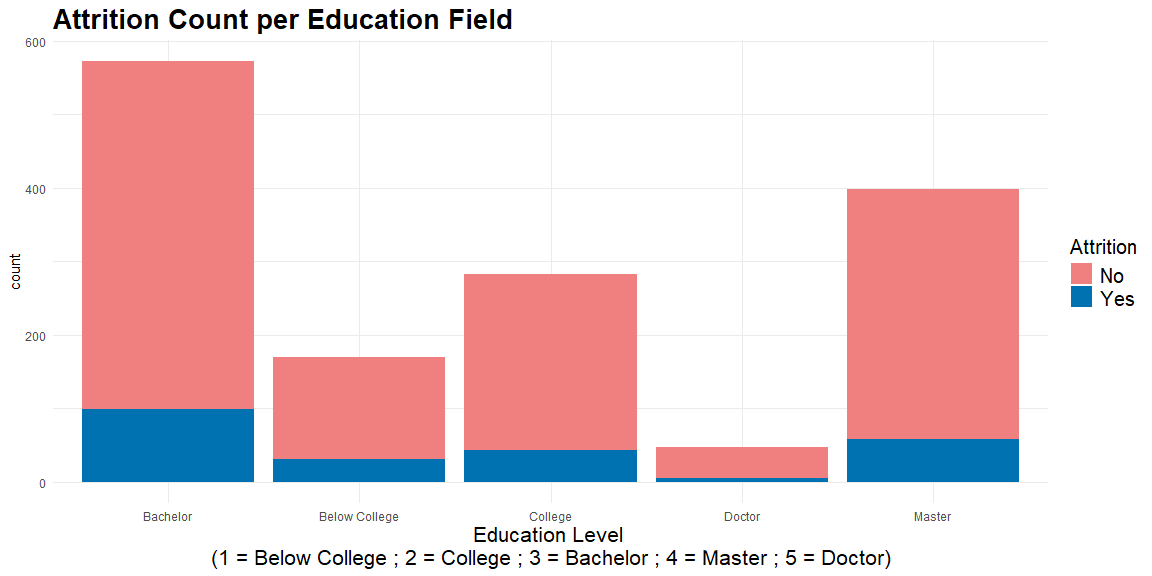
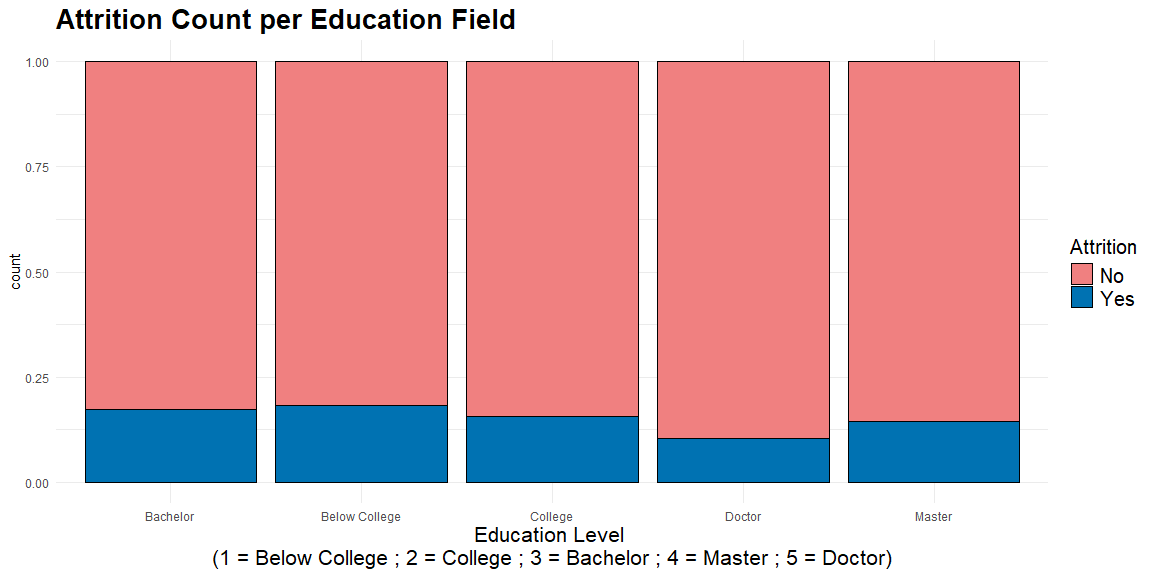
Descirbe the hypotheses

diff --git a/employee_attrition_analysis.md b/employee_attrition_analysis.md
@@ -612,7 +612,7 @@ df_hratt[sample(nrow(df_hratt), 1), ]
     ## # A tibble: 1 × 31
     ##     age attrition business_travel daily_rate department       distance_from_home
     ##   <dbl> <chr>     <chr>                <dbl> <chr>                         <dbl>
-    ## 1    34 No        Travel_Rarely         1351 Research & Deve…                  1
+    ## 1    42 No        Travel_Rarely          201 Research & Deve…                  1
     ## # ℹ 25 more variables: education <dbl>, education_field <chr>,
     ## #   environment_satisfaction <dbl>, gender <chr>, hourly_rate <dbl>,
     ## #   job_involvement <dbl>, job_level <dbl>, job_role <chr>,
@@ -912,30 +912,6 @@ df_hratt <- df_hratt %>%
 # Logistic regression to examine the association between attrition and age
 logistic_model_1 <- glm(attrition ~ age, data = df_hratt, family = binomial)
 
-# Display model results
-summary(logistic_model_1)
-```
-
-    ## 
-    ## Call:
-    ## glm(formula = attrition ~ age, family = binomial, data = df_hratt)
-    ## 
-    ## Coefficients:
-    ##             Estimate Std. Error z value Pr(>|z|)    
-    ## (Intercept)  0.20620    0.30599   0.674      0.5    
-    ## age         -0.05225    0.00870  -6.006 1.91e-09 ***
-    ## ---
-    ## Signif. codes:  0 '***' 0.001 '**' 0.01 '*' 0.05 '.' 0.1 ' ' 1
-    ## 
-    ## (Dispersion parameter for binomial family taken to be 1)
-    ## 
-    ##     Null deviance: 1298.6  on 1469  degrees of freedom
-    ## Residual deviance: 1259.1  on 1468  degrees of freedom
-    ## AIC: 1263.1
-    ## 
-    ## Number of Fisher Scoring iterations: 4
-
-``` r
 # Extract p-value from the model to assess significance
 p_value <- summary(logistic_model_1)$coefficients[2, 4]  # P-value for the 'age' variable
 
@@ -956,7 +932,7 @@ print(result)
 # Create the first plot: Attrition count per age
 plot1 <- ggplot(data = df_hratt, aes(x = age, fill = attrition)) +
   geom_bar(position = "dodge", color = "black") +  # Adding outline for better clarity
-  scale_fill_manual(values = c("red", "blue")) +  # Set colors for attrition
+  scale_fill_manual(values = c("lightcoral", "darkblue")) +  # Set colors for attrition
   ggtitle("Attrition Count per Age") +
   theme_minimal() +
   theme(
@@ -997,7 +973,18 @@ grid.arrange(plot1, plot2, ncol = 2)
 
 ![](employee_attrition_analysis_files/figure-gfm/unnamed-chunk-23-1.png)<!-- -->
 
-**Thus, I affirm that the hypothesis is TRUE.**
+This analysis looks at how age affects whether people leave or stay
+(attrition). The two variables used are *attrition* (Yes or No) and
+*age* (ranging from 18 to 60 years old). A logistic regression test was
+done to see if age is related to attrition. The result showed a p-value
+less than 0.05, which means that there is a significant association
+between age and attrition. Additionally, two bar charts were created to
+show how attrition is distributed across different age groups. The
+charts show that people under 40 have a higher rate of leaving
+(attrition) compared to those over 40.
+
+**Conclusion:** The analysis supports the hypothesis H1, showing a clear
+association between age and attrition.
 
 #### H2. People that have higher degree of education tend to leave more. **<span style="color: red;">FALSE</span>**
 
@@ -1008,17 +995,6 @@ table_e <- table(df_hratt$attrition, df_hratt$education)
 # Perform Chi-squared test
 chi_squared_test_2 <- chisq.test(table_e)
 
-# Check the result
-print(chi_squared_test_2)
-```
-
-    ## 
-    ##  Pearson's Chi-squared test
-    ## 
-    ## data:  table_e
-    ## X-squared = 3.074, df = 4, p-value = 0.5455
-
-``` r
 if (chi_squared_test_2$p.value < 0.05) {
   print("There is a significant association between attrition and education.")
 } else {
@@ -1031,7 +1007,7 @@ if (chi_squared_test_2$p.value < 0.05) {
 ``` r
 # Create the count plot using ggplot2 with softer colors
 ggplot(data = df_hratt, aes(x = education, fill = attrition)) +
-  geom_bar() +  # Default position is stacked; can change to 'dodge' if preferred
+  geom_bar(position = "fill", color = "black") +  # Adding outline for better clarity
   scale_fill_manual(values = c("lightcoral", "#0072B2")) +  # Softer shades for colors
   labs(
     title = "Attrition Count per Education Field",
@@ -1049,39 +1025,25 @@ ggplot(data = df_hratt, aes(x = education, fill = attrition)) +
 
 ![](employee_attrition_analysis_files/figure-gfm/unnamed-chunk-25-1.png)<!-- -->
 
-**Thus, I affirm that the hypothesis is FALSE.**
+This analysis explores the relationship between education level and
+attrition. The two variables examined are *attrition* (Yes or No) and
+*education* (ranging from Below College to Doctorate). A Chi-square test
+was performed to determine if there is an association between education
+level and attrition. The result yielded a p-value greater than 0.05,
+which suggests that there is no significant association between
+education and attrition. Additionally, a bar chart was created to
+visualize the attrition rate across different education levels (Below
+College, College, Bachelor, Master, Doctor). The chart shows that the
+attrition rate is approximately 0.125 across all education levels.
 
-#### H3. People who live far from work tend to leave. **<span style="color: green;">TRUE</span>**
+**Conclusion:** The analysis does not support the hypothesis H2.
+
+#### H3. People who live far from work tend to leave. **Need for further analysis**
 
 ``` r
 # Logistic regression to examine the association between attrition and distance_from_home
 logistic_model_3 <- glm(attrition ~ distance_from_home, data = df_hratt, family = binomial)
 
-# Display model results
-summary(logistic_model_3)
-```
-
-    ## 
-    ## Call:
-    ## glm(formula = attrition ~ distance_from_home, family = binomial, 
-    ##     data = df_hratt)
-    ## 
-    ## Coefficients:
-    ##                     Estimate Std. Error z value Pr(>|z|)    
-    ## (Intercept)        -1.890051   0.111382 -16.969  < 2e-16 ***
-    ## distance_from_home  0.024710   0.008312   2.973  0.00295 ** 
-    ## ---
-    ## Signif. codes:  0 '***' 0.001 '**' 0.01 '*' 0.05 '.' 0.1 ' ' 1
-    ## 
-    ## (Dispersion parameter for binomial family taken to be 1)
-    ## 
-    ##     Null deviance: 1298.6  on 1469  degrees of freedom
-    ## Residual deviance: 1290.0  on 1468  degrees of freedom
-    ## AIC: 1294
-    ## 
-    ## Number of Fisher Scoring iterations: 4
-
-``` r
 # Extract p-value from the model to assess significance
 p_value <- summary(logistic_model_3)$coefficients[2, 4]  # P-value for the 'distance_from_home' variable
 
@@ -1099,13 +1061,13 @@ print(result)
     ## [1] "There is a significant association between attrition and distance from home."
 
 ``` r
-# Create the KDE plot for distance from home
-ggplot() +
-  geom_density(data = df_left, aes(x = distance_from_home, fill = "Employees who left"), alpha = 0.5, color = "lightcoral") +
-  geom_density(data = df_stayed, aes(x = distance_from_home, fill = "Employees who stayed"), alpha = 0.5, color = "#0072B2") +
+# Create the bar plot
+ggplot(df_hratt, aes(x = distance_from_home, fill = attrition)) +
+  geom_bar(position = "fill", color = "black", alpha = 0.7) +
   labs(
     title = "Attrition Probabilities per Distance from Home",
     x = "Distance from Home",
+    y = "Count",
     fill = "Attrition"
   ) +
   scale_fill_manual(values = c("lightcoral", "#0072B2")) +
@@ -1113,6 +1075,7 @@ ggplot() +
   theme(
     plot.title = element_text(size = 20, face = "bold"),
     axis.title.x = element_text(size = 16),
+    axis.title.y = element_text(size = 16),
     legend.title = element_text(size = 15),
     legend.text = element_text(size = 15)
   )
@@ -1120,7 +1083,19 @@ ggplot() +
 
 ![](employee_attrition_analysis_files/figure-gfm/unnamed-chunk-27-1.png)<!-- -->
 
-**Thus, we affirm that the hypothesis is TRUE.**
+The bar chart displays the distribution of attrition (Yes/No) across
+different distances from home. From the chart, it can be observed that
+there is no clear trend indicating an increase in attrition as the
+distance from home increases. The proportions of employees leaving
+(shown in blue) do not exhibit a significant rise across the different
+distance categories.
+
+**Conclusion:** Based on the Logistic Regression analysis (p-value \<
+0.05), there is a significant association between attrition and distance
+from home, suggesting that employees living farther from work are more
+likely to leave. However, the bar chart does not visually support a
+clear increase in attrition with distance, highlighting the need for
+further analysis to better understand this relationship.
 
 #### H4. Single people tend to leave more. **<span style="color: green;">TRUE</span>**
 
@@ -1131,17 +1106,6 @@ table_ms <- table(df_hratt$attrition, df_hratt$marital_status)
 # Perform Chi-squared test
 chi_squared_test_4 <- chisq.test(table_ms)
 
-# Check the result
-print(chi_squared_test_4)
-```
-
-    ## 
-    ##  Pearson's Chi-squared test
-    ## 
-    ## data:  table_ms
-    ## X-squared = 46.164, df = 2, p-value = 9.456e-11
-
-``` r
 if (chi_squared_test_4$p.value < 0.05) {
   print("There is a significant association between attrition and marital status.")
 } else {
@@ -1177,7 +1141,18 @@ ggplot(data = df_hratt, aes(x = marital_status, fill = attrition)) +
 
 ![](employee_attrition_analysis_files/figure-gfm/unnamed-chunk-29-1.png)<!-- -->
 
-**Thus, I affirm that the hypothesis is TRUE.**
+This analysis explores the relationship between marital status and
+attrition. The two variables examined are attrition (Yes or No) and
+marital status (Single, Married, Divorced). A Chi-square test was
+performed to determine if there is an association between marital status
+and attrition. The result yielded a p-value less than 0.05, which
+suggests that there is a significant association between marital status
+and attrition. Additionally, a bar chart was created to visualize the
+attrition rate across different marital statuses (Single, Married,
+Divorced). The chart shows that the attrition rate for single employees
+is higher compared to those who are married or divorced.
+
+**Conclusion:** The analysis supports the hypothesis H4.
 
 #### H5. People who make overtime tend to leave more. **<span style="color: green;">TRUE</span>**
 
@@ -1188,17 +1163,6 @@ table_ot <- table(df_hratt$attrition, df_hratt$over_time)
 # Perform Chi-squared test
 chi_squared_test_5 <- chisq.test(table_ot)
 
-# Check the result
-print(chi_squared_test_5)
-```
-
-    ## 
-    ##  Pearson's Chi-squared test with Yates' continuity correction
-    ## 
-    ## data:  table_ot
-    ## X-squared = 87.564, df = 1, p-value < 2.2e-16
-
-``` r
 if (chi_squared_test_5$p.value < 0.05) {
   print("There is a significant association between attrition and overtime.")
 } else {
@@ -1211,7 +1175,7 @@ if (chi_squared_test_5$p.value < 0.05) {
 ``` r
 # Create the count plot with custom colors and ordered overtime
 ggplot(df_hratt, aes(x = over_time, fill = attrition)) +
-  geom_bar(position = "dodge", color ="black") +
+  geom_bar(position = "fill", color ="black") +
   scale_fill_manual(values = c("lightcoral", "#0072B2")) +
   labs(
     title = "Attrition count per overtime",
@@ -1230,7 +1194,17 @@ ggplot(df_hratt, aes(x = over_time, fill = attrition)) +
 
 ![](employee_attrition_analysis_files/figure-gfm/unnamed-chunk-31-1.png)<!-- -->
 
-**Thus, I affirm that the hypothesis is TRUE.**
+This analysis explores the relationship between overtime and attrition.
+The two variables examined are overtime (Yes or No) and attrition (Yes
+or No). A Chi-square test was performed to determine if there is an
+association between overtime and attrition. The result indicated a
+significant association between the two variables. Additionally, a bar
+chart was created to visualize the attrition rate for employees who make
+overtime compared to those who do not. The chart shows that employees
+who make overtime have a higher attrition rate compared to those who do
+not.
+
+**Conclusion:** The analysis supports the hypothesis H5
 
 #### H6. People who present higher performance ratings tend to leave more. **<span style="color: red;">FALSE</span>**
 
@@ -1280,9 +1254,6 @@ ggplot(df_hratt, aes(x = performance_rating, fill = attrition)) +
 
 ![](employee_attrition_analysis_files/figure-gfm/unnamed-chunk-33-1.png)<!-- -->
 
-**Thus, I conclude that hypothesis H6 is FALSE and hypothesis H7 is
-TRUE.**
-
 #### H8. People who have lower job level tend to leave more. **<span style="color: green;">TRUE</span>**
 
 ``` r
@@ -1327,8 +1298,6 @@ ggplot(df_hratt, aes(x = job_level, fill = attrition)) +
 ```
 
 ![](employee_attrition_analysis_files/figure-gfm/unnamed-chunk-35-1.png)<!-- -->
-
-**Thus, I affirm that the hypothesis is TRUE.**
 
 #### H9. People who weren’t promoted for long time tend to leave more. **<span style="color: red;">FALSE</span>**
 
@@ -1392,8 +1361,6 @@ ggplot(df_hratt, aes(x = years_since_last_promotion, fill = attrition)) +
 ```
 
 ![](employee_attrition_analysis_files/figure-gfm/unnamed-chunk-37-1.png)<!-- -->
-
-**Thus, I conclude that the hypothesis is FALSE.**
 
 #### H10. People who are in the current role for long time tend to leave more. **<span style="color: red;">FALSE</span>**
 
@@ -1462,8 +1429,6 @@ ggplot() +
 
 ![](employee_attrition_analysis_files/figure-gfm/unnamed-chunk-39-1.png)<!-- -->
 
-**Thus, I conclude that the hypothesis is FALSE.**
-
 #### H11. People who feel less involved with the job tend to leave more. **<span style="color: green;">TRUE</span>**
 
 ``` r
@@ -1508,8 +1473,6 @@ ggplot(df_hratt, aes(x = factor(job_involvement), fill = attrition)) +
 ```
 
 ![](employee_attrition_analysis_files/figure-gfm/unnamed-chunk-41-1.png)<!-- -->
-
-**Thus, the hypothesis is TRUE.**
 
 #### H12. People who feel less satisfied with the job tend to leave more. **<span style="color: green;">TRUE</span>**
 
@@ -1556,8 +1519,6 @@ ggplot(df_hratt, aes(x = factor(job_satisfaction), fill = attrition)) +
 
 ![](employee_attrition_analysis_files/figure-gfm/unnamed-chunk-43-1.png)<!-- -->
 
-**Thus, the hypothesis is TRUE.**
-
 #### H13. People who feel less satisfied with the environment tend to leave more. **<span style="color: green;">TRUE</span>**
 
 ``` r
@@ -1602,8 +1563,6 @@ ggplot(df_hratt, aes(x = factor(environment_satisfaction), fill = attrition)) +
 ```
 
 ![](employee_attrition_analysis_files/figure-gfm/unnamed-chunk-45-1.png)<!-- -->
-
-**Thus, the hypothesis is TRUE.**
 
 #### H14. People who have lower work life balance tend to leave more. **<span style="color: red;">FALSE</span>**
 
